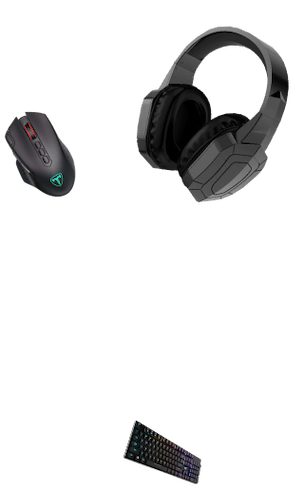
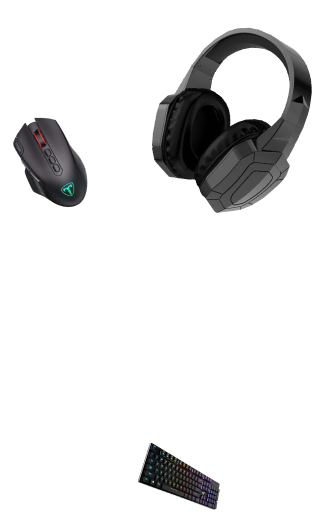
corecttion hero

Changed region(s): [[0.4441, 0.0305, 0.977, 0.4277], [0.0, 0.2138, 0.2961, 0.4277], [0.3849, 0.8248, 0.7105, 1.0]]

diff --git a/src/sass/sections/_hero.scss b/src/sass/sections/_hero.scss
@@ -1,15 +1,16 @@
+
 .hero {
+  width: 100%;
   padding-top: 180px;
-  padding-bottom: 102px;
-  // mix-blend-mode: hard-light;
-    opacity: 0.6;
-    filter: drop-shadow(0px 3.06266px 19.1416px #5EEC36);
+  padding-bottom: 127px;
+  
+  opacity: 0.75;
   background-image: 
     url('/src/images/hero/Frame-mob.png'),
     url('/src/images/hero/hero-bg.jpg');
   background-repeat: no-repeat;
-  background-position: top -40px right -20px, right bottom;
-
+  background-position: top -40px right 00px, right bottom;
+background-size: contain, cover;
     @media (min-device-pixel-ratio: 2),
       (min-resolution: 192dpi),
       (min-resolution: 2dppx) {
@@ -22,9 +23,11 @@
           padding-top: 154px;
           padding-bottom: 208px;
         background-image:
+        url('/src/images/hero/Fon.png'),
         url('/src/images/hero/Frame-tab.png'),
           url("/src/images/hero/hero-bg.jpg");
-          background-position: right, center bottom;
+          background-position: center, right, center bottom;
+          background-size: contain, contain, cover;
     
         @media (min-device-pixel-ratio: 2),
         (min-resolution: 192dpi),
@@ -39,14 +42,17 @@
         padding-top: 180px;
         padding-bottom: 209px;
         background-image:
+        url('/src/images/hero/Fon-desk.png'),
             url('/src/images/hero/Frame-desk.png'), 
             url("/src/images/hero/hero-bg.jpg");
-            background-position: right, center bottom;
+              background-position: center, center right, center bottom;
+            background-size: contain, contain, cover;
             
         @media (min-device-pixel-ratio: 2),
         (min-resolution: 192dpi),
         (min-resolution: 2dppx) {
           background-image:
+          url('/src/images/hero/Fon-desk-2x.png'),
               url('/src/images/hero/Frame-desk-2x.png'), 
               url("/src/images/hero/hero_bg-2x.jpg");
         }

diff --git a/src/index.html b/src/index.html
@@ -10,12 +10,12 @@
   </head>
   <body>
     <include src="./partials/header.html"></include>
-    <div class="main-page__wraper">
-      <br /><br />
-      <a href="./take_order.html" style="color: tomato">take-order</a>
-      <br /><br />
-      <a href="./blog_article.html" style="color: tomato">Blog_article</a>
-      <br /><br />
+    <!-- <div class="main-page__wraper"> -->
+      <!-- <br /><br /> -->
+      <!-- <a href="./take_order.html" style="color: tomato">take-order</a> -->
+      <!-- <br /><br /> -->
+      <!-- <a href="./blog_article.html" style="color: tomato">Blog_article</a> -->
+      <!-- <br /><br /> -->
       <include src="./partials/hero.html"></include>
       <include src="./partials/slider.html"></include>
       <include src="./partials/sale.html"></include>
